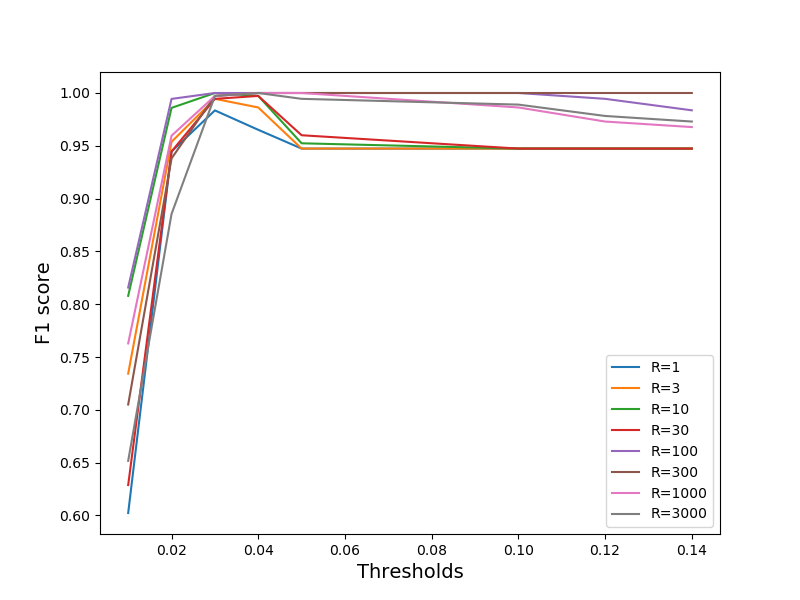
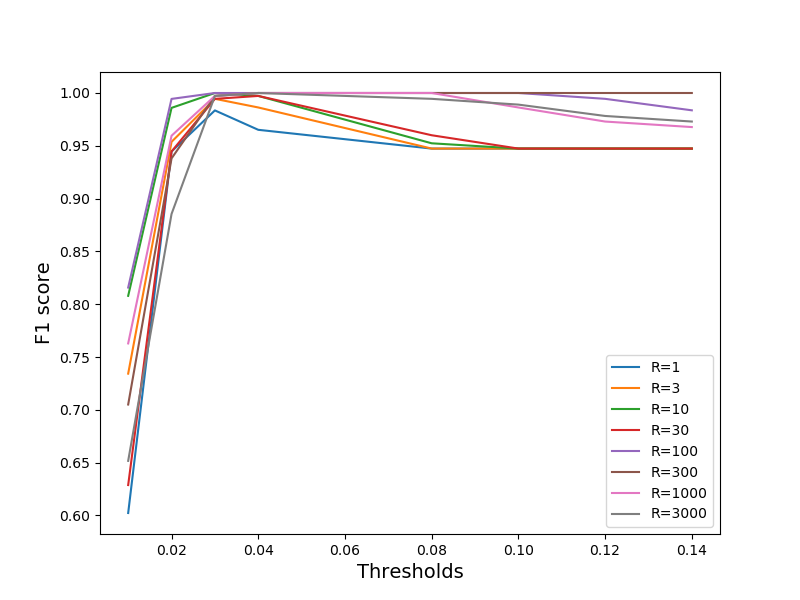
updated explicit boosting

Changed region(s): [[0.3125, 0.15, 0.6562, 0.27]]

diff --git a/utils/detection_algo_val_accuracy.py b/utils/detection_algo_val_accuracy.py
@@ -1,6 +1,6 @@
-from common import set_parameters, test
+from utils.common import set_parameters, test
 from flwr.server.strategy.aggregate import aggregate
-from mnist_models import modelA
+from utils.mnist_models import modelA
 import numpy as np
 import pickle
 import torch
@@ -251,6 +251,8 @@ def wrapper_for_plots(unbalanced=0):
     dict_of_l_f1= {}
     dict_of_l_precision= {}
 
+    l_thres_mins= []
+    l_thres_max= []         #list of max thresholds for different R values(balanced data) or diff DomProp(unbalanced)
     for results_dict in list_of_results_dicts:
         if(unbalanced ==0 and rvalue_index== 0):
             rvalue_index+= 1
@@ -267,9 +269,14 @@ def wrapper_for_plots(unbalanced=0):
         l_f1 = []
         l_precision= []
 
+        threshold_min= -1
+        threshold_max= -1
+
         for key in results_uni.keys():
             accu = accuracy_score(Y_true, results_uni[key])
             cmtx = confusion_matrix(Y_true, results_uni[key], labels=[True, False])
+            #print(key)
+            #print(cmtx)
             TN = cmtx[0,0]
             FN = cmtx[1,0]
             TP = cmtx[1,1]
@@ -278,26 +285,32 @@ def wrapper_for_plots(unbalanced=0):
             FPR = FP / (FP+TN)
             precision= TP/ (TP+FP)
             F1= 2*TP/(2*TP + FP + FN)
-
+            if(F1>.9 and threshold_min==-1): threshold_min= float(key) 
+            elif(threshold_min != -1 and F1>.9): threshold_max= float(key)
             l_accu.append(accu)
             l_TPR.append(TPR)
             l_FPR.append(FPR) 
             l_f1.append(F1)
             l_precision.append(precision)
 
+        l_thres_mins.append(threshold_min)
+        l_thres_max.append(threshold_max)
         if(unbalanced == 0): 
             key= rvalues[rvalue_index]
             rvalue_index += 1
         else: 
             key= domPropValues[domprop_index]
             domprop_index += 1
-        
+        #print(key)
+        #print(cmtx)
         dict_of_l_accu[key]= l_accu 
         dict_of_l_TPR[key]= l_TPR
         dict_of_l_FPR[key]= l_FPR 
         dict_of_l_f1[key]= l_f1
         dict_of_l_precision[key]= l_precision
 
+    print(l_thres_mins)
+    print(l_thres_max)
     return dict_of_l_f1, dict_of_l_TPR, dict_of_l_FPR, dict_of_l_precision
 
 
@@ -337,7 +350,7 @@ def plot_accu_vs_rounds():
 #plot_accu_vs_rounds()
 
 
-
+#use parameter=1 for unbalanced data, nothing for balanced
 dict_of_l_f1, dict_of_l_TPR, dict_of_l_FPR, dict_of_l_precision= wrapper_for_plots(1)
 draw_f1_vs_threshold(dict_of_l_f1,1)
 draw_roc_curve(dict_of_l_TPR, dict_of_l_FPR, dict_of_l_precision,1)

diff --git a/flower_sim.py b/flower_sim.py
@@ -49,7 +49,7 @@ NUM_CLASSES= 10                 #for fashionMNIST #classes= 10
 NUM_FL_ROUNDS= 40
 NUM_TRAIN_EPOCH= 5
 MAL_CLIENTS_INDICES= [3] #[3,5,8]      #allowed values: [0 to NUM_CLIENTS-1]
-POISONING_ALGO=2                #allowed values: [0, 1, 2]
+POISONING_ALGO=1                #allowed values: [0, 1, 2]
 
 def load_datasets():
     # Define the transformation to Fashion MNIST
@@ -152,12 +152,20 @@ class FlowerClient(fl.client.NumPyClient):
         return get_parameters(self.net)
     
     def fit(self, parameters, config):
+        prev_params= get_parameters(self.net)
+
         set_parameters(self.net, parameters)
         if(int(self.cid) in MAL_CLIENTS_INDICES):
             if(POISONING_ALGO==1):
                 train(self.cid, self.net, self.train_loader, epochs=NUM_TRAIN_EPOCH)
-                boosted_params= get_parameters(self.net)
-                boosted_params= [element * NUM_CLIENTS for element in boosted_params]
+                cur_params= get_parameters(self.net)
+                delta=[]
+                boosted_params=[]
+                for id in range (0,len(cur_params)):
+                    delta.append(cur_params[id] - prev_params[id])
+                boosted_delta= [element * NUM_CLIENTS for element in delta]
+                for id in range (0,len(prev_params)):
+                    boosted_params.append(prev_params[id] + boosted_delta[id])
                 return boosted_params, len(self.train_loader), {}
             else:       #alternating minimization
                 train(self.cid, self.net, self.train_loader, epochs=NUM_TRAIN_EPOCH*10, global_params= parameters)
@@ -166,6 +174,7 @@ class FlowerClient(fl.client.NumPyClient):
             train(self.cid, self.net, self.train_loader, epochs=NUM_TRAIN_EPOCH)
 
         return get_parameters(self.net), len(self.train_loader), {}
+
 
         
     def evaluate(self, parameters, config):

diff --git a/flower_args.py b/flower_args.py
@@ -220,12 +220,16 @@ class FlowerClient(fl.client.NumPyClient):
         return get_parameters(self.net)
     
     def fit(self, parameters, config):
+        prev_params= get_parameters(self.net)
+
         set_parameters(self.net, parameters)
         if(int(self.cid) in MAL_CLIENTS_INDICES):
             if(POISONING_ALGO==1):
                 train(self.cid, self.net, self.train_loader, epochs=NUM_TRAIN_EPOCH)
-                boosted_params= get_parameters(self.net)
-                boosted_params= [element * NUM_CLIENTS for element in boosted_params]
+                cur_params= get_parameters(self.net)
+                delta= cur_params - prev_params
+                boosted_delta= [element * NUM_CLIENTS for element in delta]
+                boosted_params= prev_params + boosted_delta
                 return boosted_params, len(self.train_loader), {}
             else:       #alternating minimization
                 train(self.cid, self.net, self.train_loader, epochs=NUM_TRAIN_EPOCH*10, global_params= parameters)
